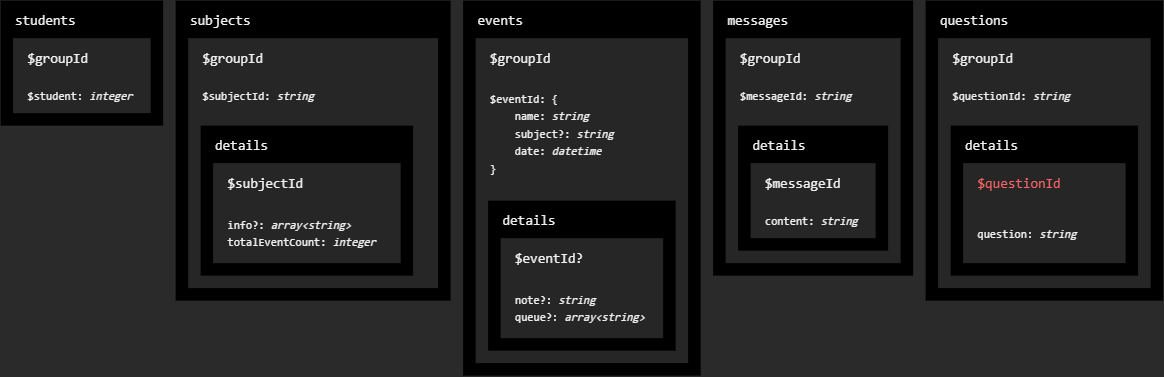
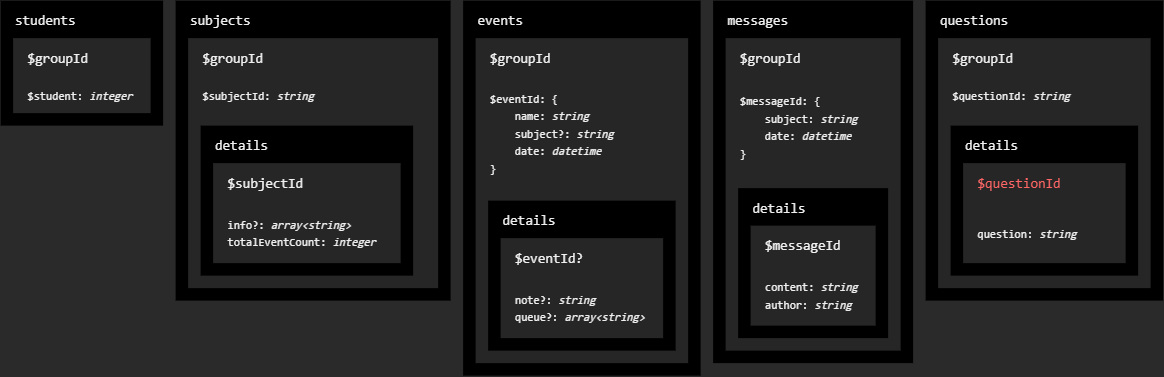
Implement fetching the messages, add 2 attrs to them

Changed region(s): [[0.5876, 0.2334, 0.8041, 0.9629]]

diff --git a/app/lib/storage/cloud.dart b/app/lib/storage/cloud.dart
@@ -14,7 +14,7 @@ class Cloud {
 	/// The user's [Role] in the group.
 	static Role get role => _role;
 
-	/// The [Roles] of the group's students. Updates the user's [Role].
+	/// The [Role]s of the group's students. Updates the user's [Role].
 	static Future<Roles> roles() async {
 		final snapshot = await _document(Entities.students).get();
 		final roles = {
@@ -26,7 +26,7 @@ class Cloud {
 		return roles;
 	}
 
-	/// Adds a subject with the [name] unless it exists.
+	/// Adds a [Subject] with the [name] unless it exists.
 	static Future<void> addSubject({required String name}) async => await _addEntity(
 		entities: Entities.subjects,
 		existingEquals: (existingSubject) => existingSubject == name,
@@ -40,7 +40,7 @@ class Cloud {
 		return snapshot.exists ? (List<String>.from(snapshot.data()!.values)..sort()) : <String>[];
 	}
 
-	/// The group's [subjects].
+	/// The group's [Subject]s.
 	static Future<List<Subject>> subjects() async {
 		final snapshots = await Future.wait([
 			_document(Entities.subjects).get(),
@@ -65,7 +65,7 @@ class Cloud {
 		)]..sort((a, b) => a.name.compareTo(b.name));
 	}
 
-	/// Adds an event with the arguments unless it exists.
+	/// Adds an [Event] with the arguments unless it exists.
 	static Future<void> addEvent({
 		required String name,
 		String? subject,
@@ -97,6 +97,7 @@ class Cloud {
 		}
 	}
 
+	/// The group's [Event]s.
 	static Future<List<Event>> events() async {
 		final snapshot = await _document(Entities.events).get();
 		if (!snapshot.exists) return <Event>[];
@@ -108,16 +109,33 @@ class Cloud {
 		)]..sort((a, b) => a.date.compareTo(b.date));
 	}
 
-	/// Adds a message with the arguments unless it exists.
+	/// Adds a [Message] with the arguments unless it exists.
 	static Future<void> addMessage({
 		required String subject,
-		required String content
+		required String content,
 	}) async => await _addEntity(
 		entities: Entities.messages,
 		existingEquals: (existingSubject) => existingSubject == subject,
-		entity: subject,
-		details: {Field.content.name: content},
+		entity: {
+			Field.subject.name: subject,
+			Field.date.name: DateTime.now()
+		},
+		details: {
+			Field.content.name: content,
+			Field.author.name: Local.name
+		},
 	);
+
+	/// The group's [Message]s.
+	static Future<List<Message>> messages() async {
+		final snapshot = await _document(Entities.messages).get();
+		if (!snapshot.exists) return <Message>[];
+
+		return [for (final message in snapshot.data()!.values) Message(
+			subject: message[Field.subject.name],
+			date: message[Field.date.name]
+		)]..sort((a, b) => b.date.compareTo(a.date));
+	}
 
 	/// Adds the [entity] unless it exists, with the given [details] unless they are `null`.
 	/// Returns whether the [entity] was written.
@@ -183,5 +201,6 @@ enum Field {
 	subject,
 	date,
 	note,
-	content
+	content,
+	author
 }

diff --git a/app/lib/storage/entities.dart b/app/lib/storage/entities.dart
@@ -37,3 +37,14 @@ class Event {
 		required this.date
 	});
 }
+
+
+class Message {
+	final String subject;
+	final DateTime date;
+
+	const Message({
+		required this.subject,
+		required this.date
+	});
+}

diff --git a/app/lib/widgets/sections/messages.dart b/app/lib/widgets/sections/messages.dart
@@ -62,7 +62,7 @@ class NewMessagePage extends StatelessWidget {
 		Navigator.of(context).pop();
 		Cloud.addMessage(
 			subject: subject,
-			content: content
+			content: content,
 		);
 	}
 }
